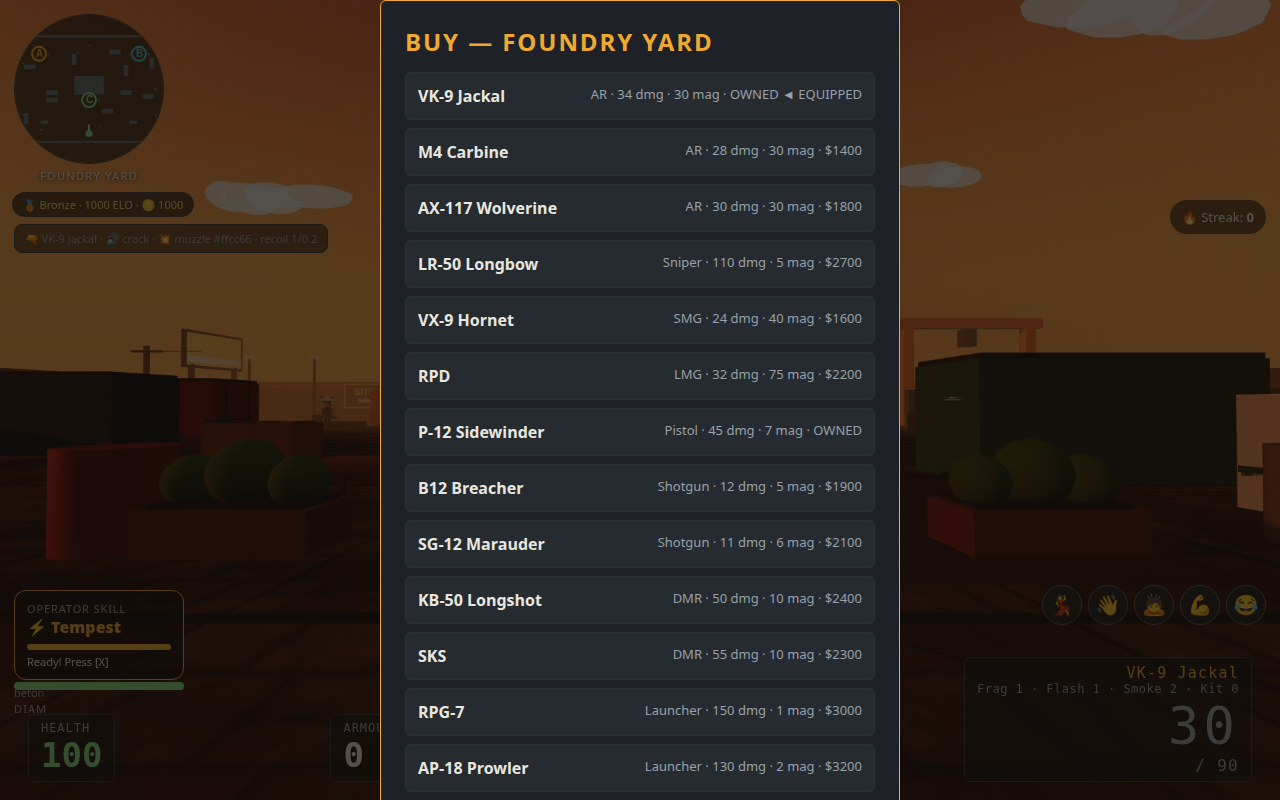
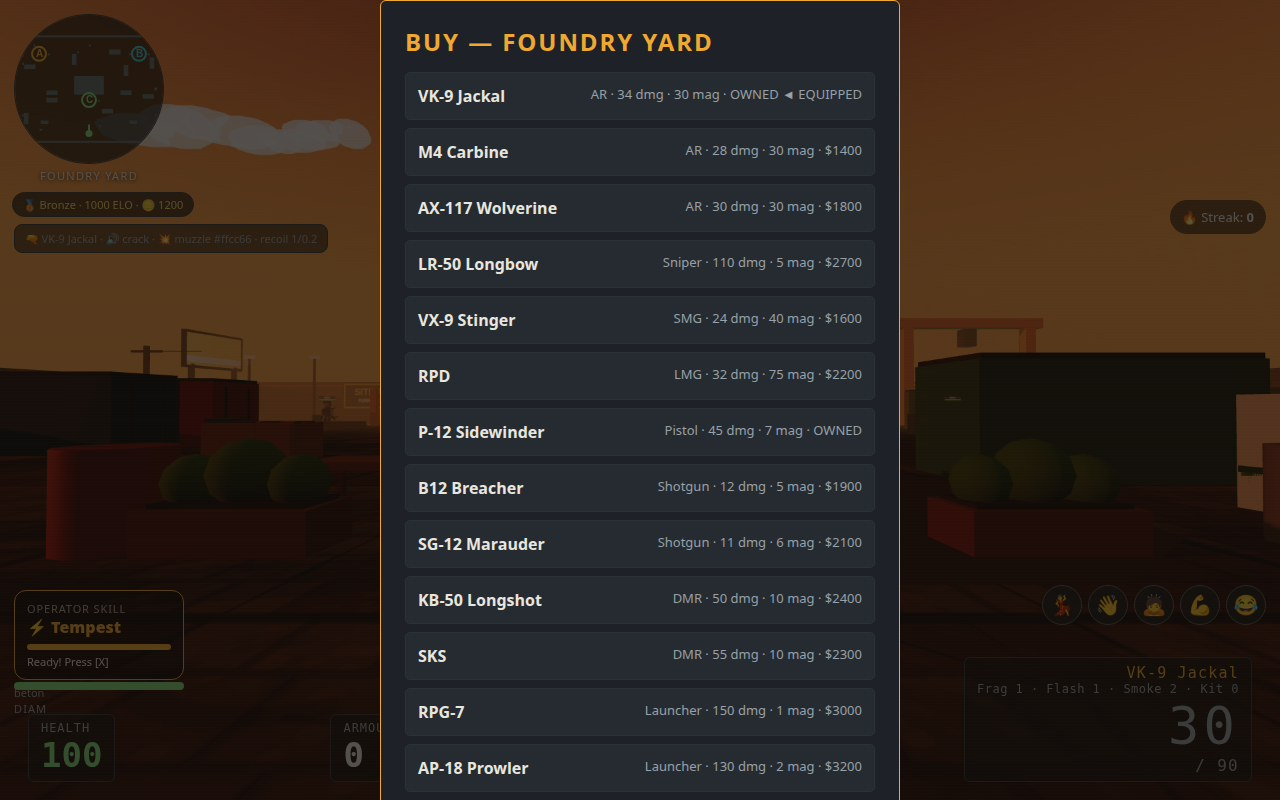
Rename VX-9 Hornet to VX-9 Stinger (name collided with the reference) + refreshed buy shot

diff --git a/game/src/weaponfx.js b/game/src/weaponfx.js
@@ -8,7 +8,7 @@ export const WEAPON_FX = {
   m4: { name: 'M4', sound: { freq: 900, type: 'square', dur: 0.06, vol: 0.2, pattern: 'tak' }, muzzle: { color: 0xffdd88, scale: 0.9 }, smoke: { color: 0x999999, count: 2 }, tracer: { color: 0xffdd55, count: 1 }, recoil: { up: 0.9, side: 0.2, shake: 0.25 }, reload: { stages: ['Mag keluar', 'Mag masuk', 'Kokang'] }, hit: { blood: 1 }, kill: { fx: 'none' }, hotAt: 40 },
   ak117: { name: 'AX-117 Wolverine', sound: { freq: 140, type: 'sawtooth', dur: 0.12, vol: 0.26, pattern: 'dum' }, muzzle: { color: 0xffaa33, scale: 1.1 }, smoke: { color: 0x888888, count: 3 }, tracer: { color: 0xffdd55, count: 1 }, recoil: { up: 1.15, side: 0.3, shake: 0.4 }, reload: { stages: ['Mag keluar', 'Mag masuk', 'Kokang'] }, hit: { blood: 1 }, kill: { fx: 'none' }, hotAt: 30 },
   lr50: { name: 'LR-50 Longbow', sound: { freq: 70, type: 'sine', dur: 0.35, vol: 0.4, pattern: 'boom-echo' }, muzzle: { color: 0xffee99, scale: 1.6 }, smoke: { color: 0xaaaaaa, count: 4 }, tracer: { color: 0x55ddff, count: 1 }, recoil: { up: 2.2, side: 0.1, shake: 0.8 }, reload: { stages: ['Tarik bolt', 'Masukkan peluru', 'Tutup bolt'] }, hit: { blood: 1.5 }, kill: { fx: 'none' }, hotAt: 12 },
-  qq9: { name: 'VX-9 Hornet', sound: { freq: 700, type: 'square', dur: 0.05, vol: 0.16, pattern: 'tick' }, muzzle: { color: 0xffdd88, scale: 0.7 }, smoke: { color: 0x999999, count: 1 }, tracer: { color: 0xffdd55, count: 1 }, recoil: { up: 0.6, side: 0.15, shake: 0.2 }, reload: { stages: ['Mag keluar', 'Mag masuk', 'Kokang'] }, hit: { blood: 1 }, kill: { fx: 'none' }, hotAt: 50 },
+  qq9: { name: 'VX-9 Stinger', sound: { freq: 700, type: 'square', dur: 0.05, vol: 0.16, pattern: 'tick' }, muzzle: { color: 0xffdd88, scale: 0.7 }, smoke: { color: 0x999999, count: 1 }, tracer: { color: 0xffdd55, count: 1 }, recoil: { up: 0.6, side: 0.15, shake: 0.2 }, reload: { stages: ['Mag keluar', 'Mag masuk', 'Kokang'] }, hit: { blood: 1 }, kill: { fx: 'none' }, hotAt: 50 },
   rpd: { name: 'RPD', sound: { freq: 200, type: 'square', dur: 0.08, vol: 0.24, pattern: 'burst3' }, muzzle: { color: 0xffbb44, scale: 1.2 }, smoke: { color: 0x888888, count: 3 }, tracer: { color: 0xffdd55, count: 1 }, recoil: { up: 1.1, side: 0.25, shake: 0.45 }, reload: { stages: ['Buka kotak belt', 'Pasang belt', 'Kokang berat'] }, hit: { blood: 1 }, kill: { fx: 'none' }, hotAt: 100 },
   p12: { name: 'P-12 Sidewinder', sound: { freq: 1200, type: 'square', dur: 0.05, vol: 0.18, pattern: 'pak' }, muzzle: { color: 0xffdd88, scale: 0.7 }, smoke: { color: 0x999999, count: 1 }, tracer: { color: 0xffdd55, count: 1 }, recoil: { up: 0.8, side: 0.2, shake: 0.3 }, reload: { stages: ['Mag keluar', 'Mag masuk', 'Kokang'] }, hit: { blood: 1 }, kill: { fx: 'none' }, hotAt: 30 },
   by15: { name: 'B12 Breacher', sound: { freq: 90, type: 'sine', dur: 0.2, vol: 0.34, pattern: 'dum' }, muzzle: { color: 0xffcc55, scale: 1.9 }, smoke: { color: 0x999999, count: 4 }, tracer: { color: 0xffdd55, count: 8 }, recoil: { up: 2.2, side: 0.3, shake: 0.7 }, reload: { stages: ['Masukkan peluru'] }, hit: { blood: 1.5 }, kill: { fx: 'none' }, hotAt: 10 },

diff --git a/game/src/state.js b/game/src/state.js
@@ -10,7 +10,7 @@ export const WEAPONS_DB = [
   { id: 'm4', name: 'M4 Carbine', cls: 'AR', price: 1400, magSize: 30, dmg: 28, headMult: 4, rate: 0.09, reload: 1.9, spread: 0.009, zoom: 1.2, auto: true, recoil: 0.85, range: 42, pellets: 1, projectile: null, blastR: 0, haptic: 40, sound: 'm4' },
   { id: 'ak117', name: 'AX-117 Wolverine', cls: 'AR', price: 1800, magSize: 30, dmg: 30, headMult: 4, rate: 0.095, reload: 2.0, spread: 0.010, zoom: 1.2, auto: true, recoil: 0.95, range: 44, pellets: 1, projectile: null, blastR: 0, haptic: 40, sound: 'ak117' },
   { id: 'lr50', name: 'LR-50 Longbow', cls: 'Sniper', price: 2700, magSize: 5, dmg: 110, headMult: 4, rate: 1.4, reload: 3.0, spread: 0.0015, zoom: 3.2, auto: false, recoil: 2.2, range: 120, pellets: 1, projectile: null, blastR: 0, haptic: 100, sound: 'lr50' },
-  { id: 'qq9', name: 'VX-9 Hornet', cls: 'SMG', price: 1600, magSize: 40, dmg: 24, headMult: 4, rate: 0.07, reload: 1.7, spread: 0.016, zoom: 1.1, auto: true, recoil: 0.7, range: 28, pellets: 1, projectile: null, blastR: 0, haptic: 25, sound: 'qq9' },
+  { id: 'qq9', name: 'VX-9 Stinger', cls: 'SMG', price: 1600, magSize: 40, dmg: 24, headMult: 4, rate: 0.07, reload: 1.7, spread: 0.016, zoom: 1.1, auto: true, recoil: 0.7, range: 28, pellets: 1, projectile: null, blastR: 0, haptic: 25, sound: 'qq9' },
   { id: 'rpd', name: 'RPD', cls: 'LMG', price: 2200, magSize: 75, dmg: 32, headMult: 4, rate: 0.13, reload: 3.4, spread: 0.014, zoom: 1.15, auto: true, recoil: 1.3, range: 55, pellets: 1, projectile: null, blastR: 0, haptic: 60, sound: 'rpd' },
   { id: 'p12', name: 'P-12 Sidewinder', cls: 'Pistol', price: 500, magSize: 7, dmg: 45, headMult: 2, rate: 0.32, reload: 1.6, spread: 0.008, zoom: 1.1, auto: false, recoil: 1.1, range: 25, pellets: 1, projectile: null, blastR: 0, haptic: 20, sound: 'p12' },
   // --- v18.5: shotguns (8 pellets per shot, close range = one-shot kill) ---
